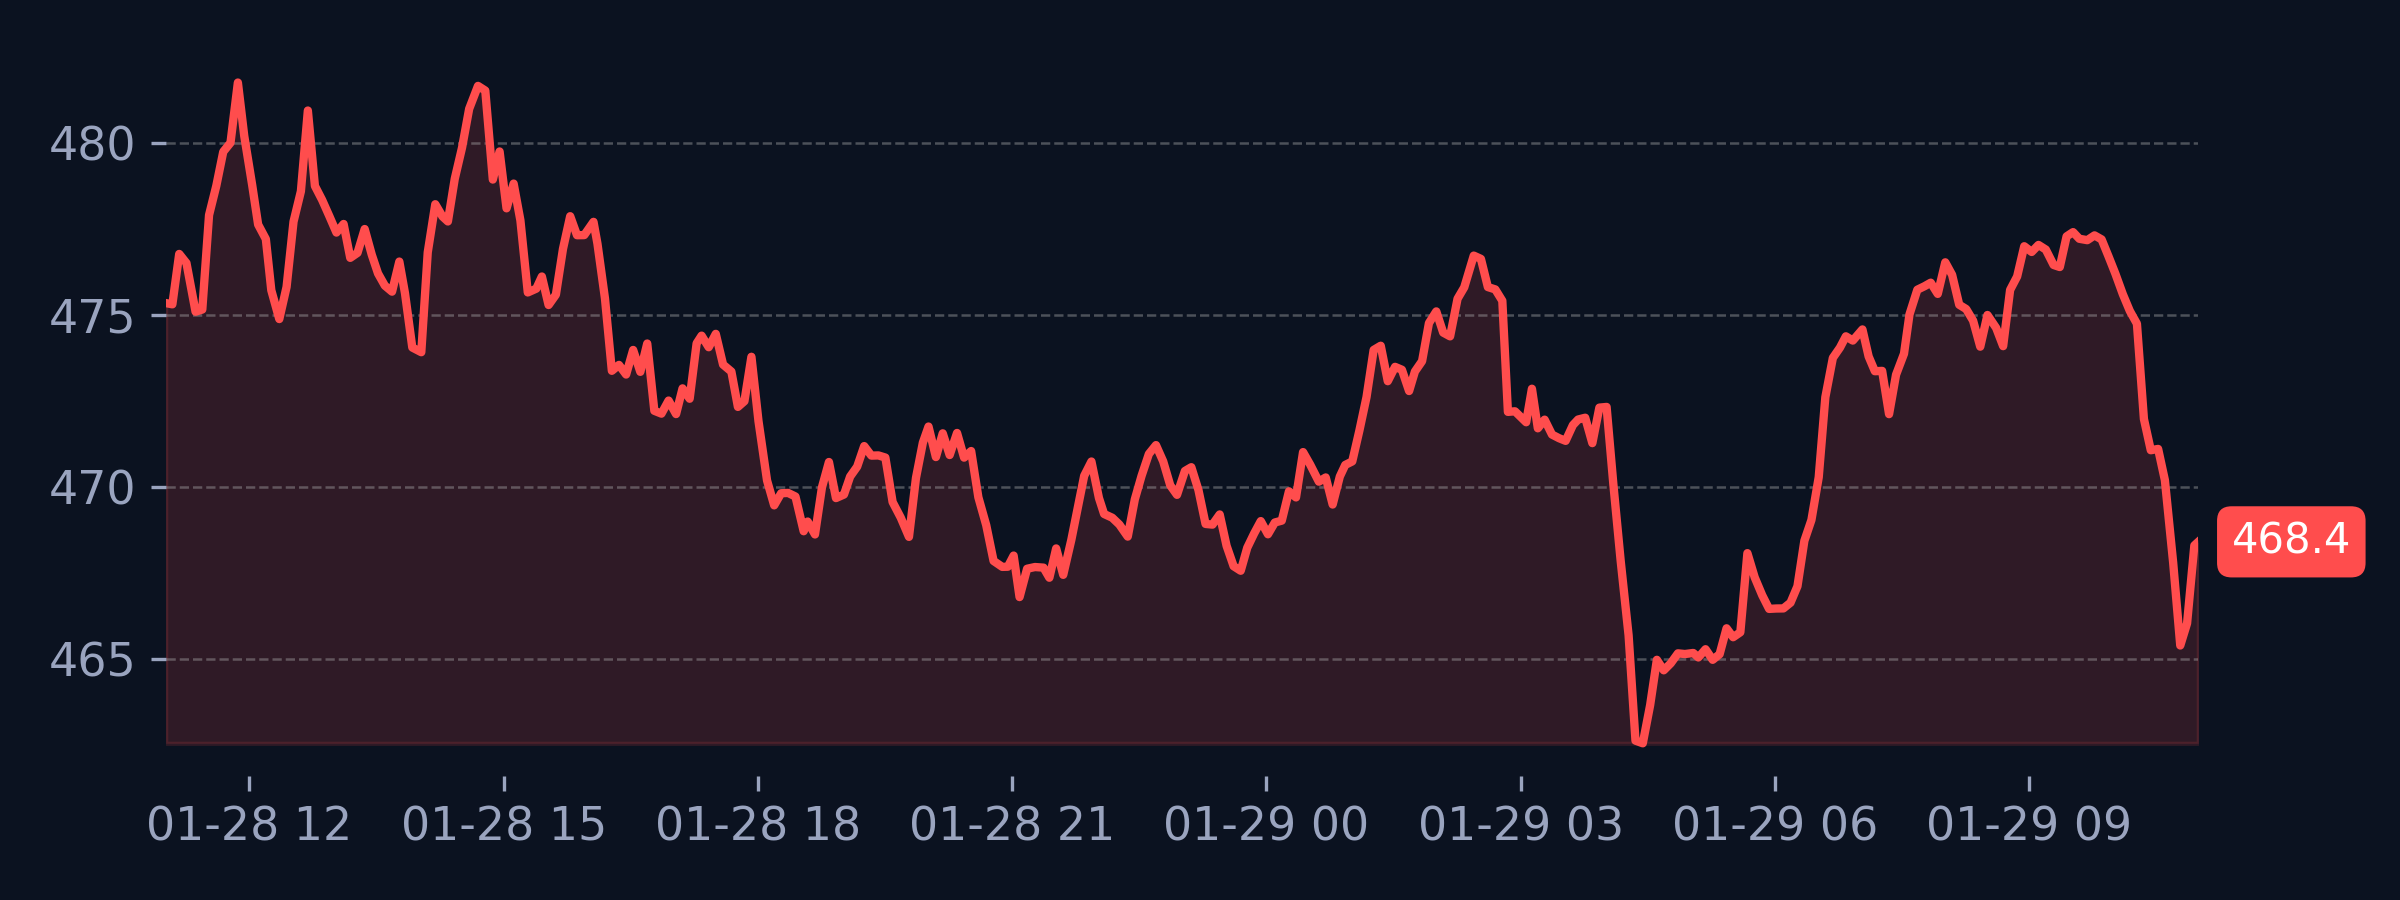
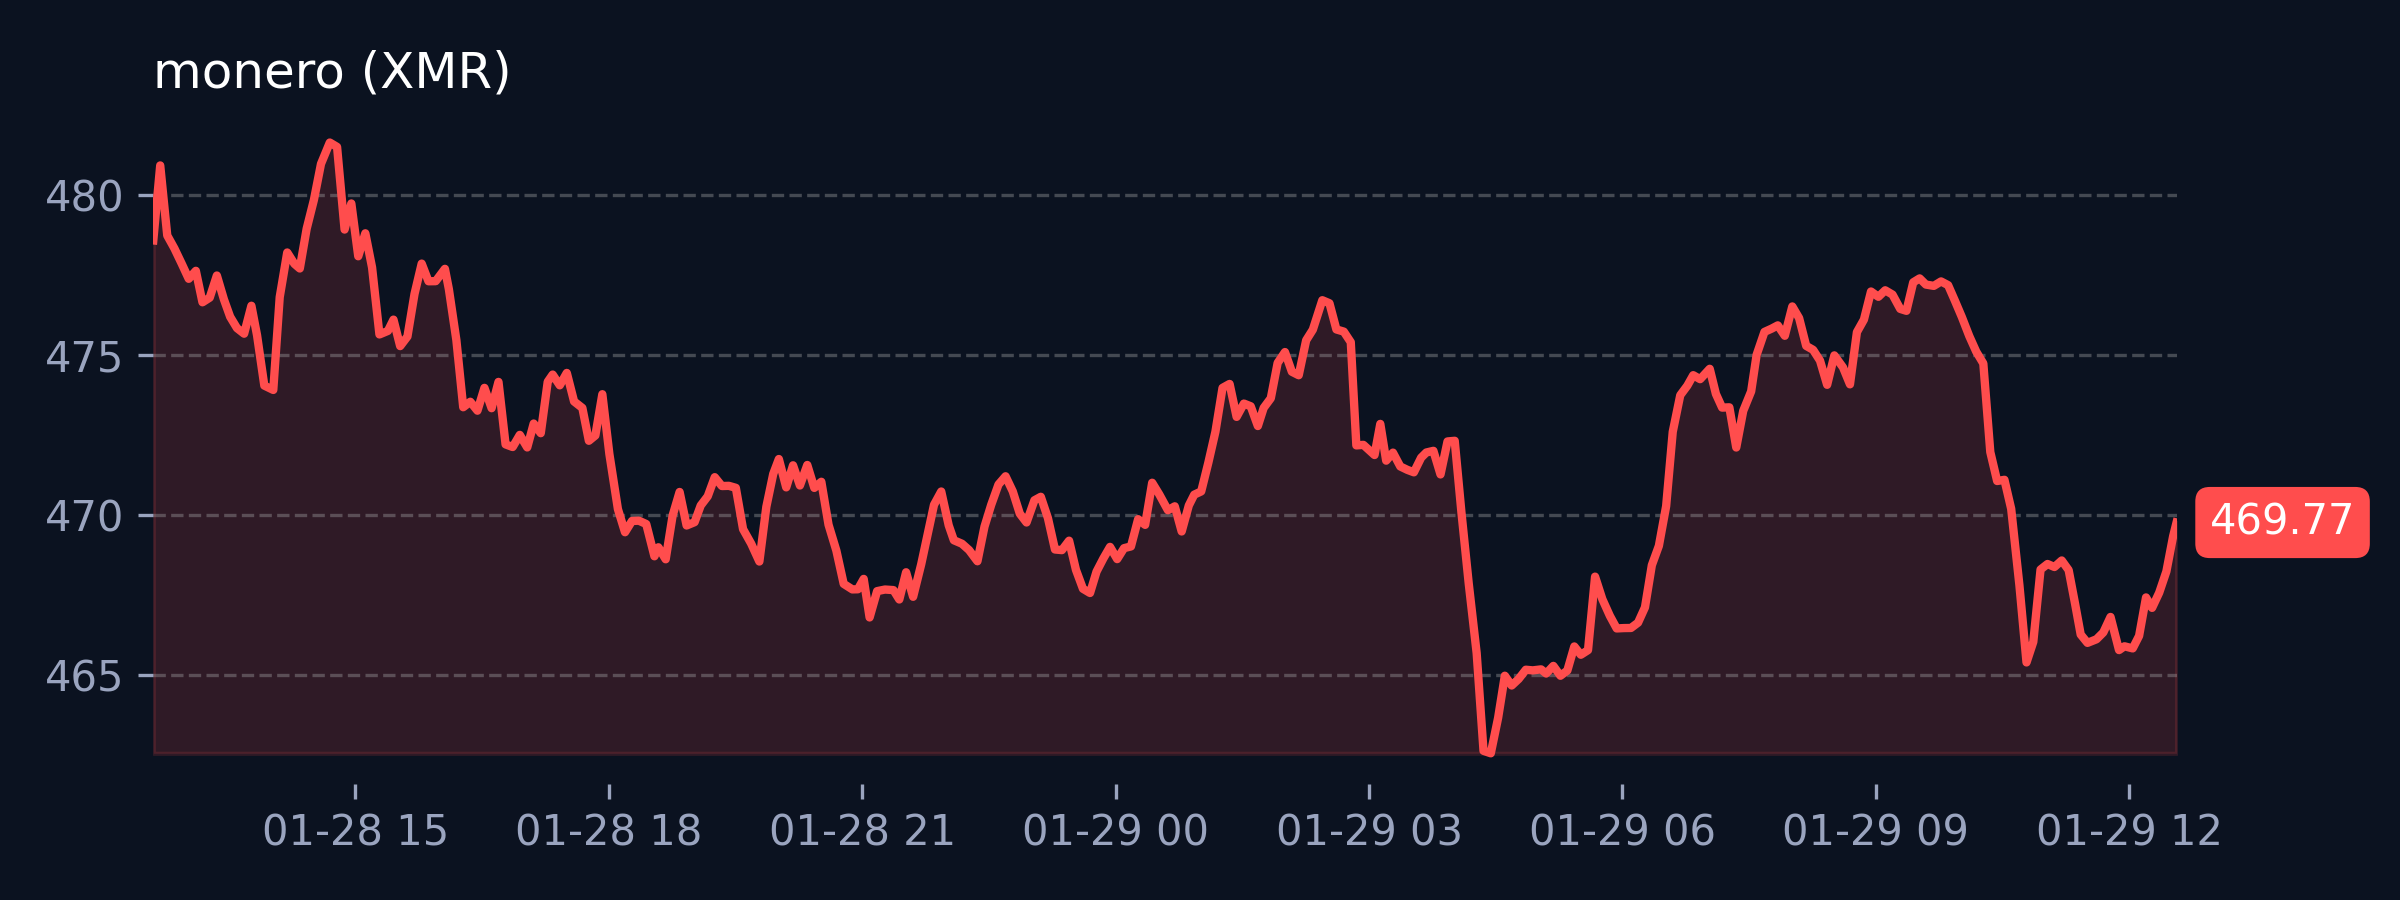
minor updates

Changed region(s): [[0.0, 0.0622, 1.0, 0.84], [0.0625, 0.8711, 0.9375, 0.9333]]

diff --git a/chart.py b/chart.py
@@ -2,58 +2,71 @@ import requests
 import pandas as pd
 import matplotlib.pyplot as plt
 
-
-def fetch_price(coin_id, days=1, vs_currency="usd"):
-    url = f"https://api.coingecko.com/api/v3/coins/{coin_id}/market_chart"
+def fetch_price(coin, days, currency="usd"):
+    url = f"https://api.coingecko.com/api/v3/coins/{coin}/market_chart"
     params = {
-            "vs_currency": vs_currency,
-            "days": days
-            }
-
+        "vs_currency": currency,
+        "days": days
+    }
     r = requests.get(url, params=params, timeout=10)
     r.raise_for_status()
-
     data = r.json()
     if "prices" not in data:
-        raise RuntimeError(f"[!] bad API response for {coin_id}: {data}")
-
-    df = pd.DataFrame(data["prices"], columns=["ts", "price"])
-    df["ts"] = pd.to_datetime(df["ts"], unit="ms")
-
+        raise RuntimeError(f"[!] bad API response during fetch_price() for {coin}\n[*] error data: {data}")
+    
+    df = pd.DataFrame(data['prices'], columns=['ts', 'price'])
+    df['ts'] = pd.to_datetime(df['ts'], unit='ms')
+    
     #return df[(df["price"] > 0) & (df["price"] < 1_000_000)]
     return df
 
-def generate_chart(output="img/xmr_zec.png", days=1):
-    xmr = fetch_price("monero", days)
-    zec = fetch_price("zcash", days)
-
+def generate_chart(chart_type, coin=None):
     bg = "#0b1220"
     grid = "#2a3345"
     red = "#ff4d4d"
     blue = "#4da6ff"
-
     plt.rcParams.update({
-        "figure.facecolor": bg,
-        "axes.facecolor": bg,
-        "xtick.color": "#9aa4bf",
-        "ytick.color": "#9aa4bf",
-        "font.size": 10
+            "figure.facecolor": bg,
+            "axes.facecolor": bg,
+            "xtick.color": "#9aa4bf",
+            "ytick.color": "#9aa4bf",
+            "font.size": 10
     })
 
-    fig, (ax1, ax2) = plt.subplots(
-        2, 1,
-        figsize=(8, 5),
-        sharex=True,
-        gridspec_kw={"hspace": 0.33}
-    )
+    days = "1"
+    if chart_type == 'dual':
+        xmr_price = fetch_price("monero", days)
+        zec_price = fetch_price("zcash", days)
 
-    draw(ax1, xmr, "monero (XMR)", red)
-    draw(ax2, zec, "zcash (ZEC)", blue)
+        fig, (ax1, ax2) = plt.subplots(
+            2, 1,
+            figsize=(8, 5),
+            sharex=True,
+            gridspec_kw={"hspace": 0.30}
+        )
 
-    plt.tight_layout()
-    plt.savefig(output, dpi=400)
-    plt.close()
+        draw(ax1, xmr_price, "monero (XMR)", red)
+        draw(ax2, zec_price, "zcash (ZEC)", blue)
 
+        plt.tight_layout()
+        plt.savefig("img/xmr_zec.png", dpi=300)
+        plt.close()
+    elif chart_type == 'single':
+        if coin is None:
+            raise ValueError("[!] coin is required when chart_type == 'single'")
+        
+        price = fetch_price(coin, days)
+        fig, ax = plt.subplots(figsize=(8, 3))
+        if coin == 'monero':
+            draw(ax, price, "monero (XMR)", red)
+        elif coin == 'zcash':
+            draw(ax, price, "zcash (ZEC)", blue)
+        else:
+            raise ValueError("[!] not supported coin yet")
+        
+        plt.tight_layout()
+        plt.savefig(f"img/{coin}.png", dpi=300)
+        plt.close()
 
 def draw(ax, df, title, color):
     ax.plot(df["ts"], df["price"], color=color, linewidth=2)
@@ -91,3 +104,88 @@ def draw(ax, df, title, color):
 
     ax.margins(x=0)
     ax.set_ylabel("")
+
+#def generate_chart(coins, chart_type):
+#    if chart_type == 'single':
+#    url = f"https://api.coingecko.com/api/v3/coins/{coin}/market_chart"
+#    params = {
+#        "vs_currency": "usd",
+#        "days": 1
+#        }
+#    
+#    data = requests.get(url, params=params, timeout=10).json()
+#    if "prices" not in data:
+#        raise RuntimeError(f"[!] invalid API response: {data}")
+#    else:
+#        prices = data["prices"]
+#    
+#    df = pd.DataFrame(prices, columns=["ts", "price"])
+#    df["ts"] = pd.to_datetime(df["ts"], unit="ms")
+#    
+#    # to sort; can be commented out
+#    #df = df[(df["price"] > 50) & (df["price"] < 2000)]
+#    
+#    bg_color = "#0b1220"
+#    grid_color = "#2a3345"
+#    line_color = "#ff4d4d"
+#    
+#    plt.rcParams.update({
+#        "figure.facecolor": bg_color,
+#        "axes.facecolor": bg_color,
+#        "axes.edgecolor": bg_color,
+#        "axes.labelcolor": "white",
+#        "xtick.color": "#9aa4bf",
+#        "ytick.color": "#9aa4bf",
+#        "font.size": 11
+#    })
+#    
+#    fig, ax = plt.subplots(figsize=(8, 3))
+#    
+#    # price line
+#    ax.plot(df["ts"], df["price"], color=line_color, linewidth=2)
+#    
+#    # gradient 
+#    x = df["ts"]
+#    y = df["price"]
+#    
+#    ax.fill_between(
+#        x,
+#        y,
+#        y.min(),
+#        color=line_color,
+#        alpha=0.15
+#    )
+#    
+#    # mesh
+#    ax.grid(True, axis="y", linestyle="--", linewidth=0.6, alpha=0.4)
+#    ax.grid(False, axis="x")
+#    
+#    # remove borders
+#    for spine in ax.spines.values():
+#        spine.set_visible(False)
+#    
+#    # current price in numbers
+#    last_price = y.iloc[-1]
+#    ax.annotate(
+#        f"{last_price:.1f}",
+#        xy=(x.iloc[-1], last_price),
+#        xytext=(8, 0),
+#        textcoords="offset points",
+#        va="center",
+#        color="white",
+#        fontsize=10,
+#        bbox=dict(
+#            boxstyle="round,pad=0.35",
+#            facecolor=line_color,
+#            edgecolor="none"
+#        )
+#    )
+#    
+#    ax.set_xlim(x.min(), x.max())
+#    ax.margins(x=0)
+#    ax.set_xlabel("")
+#    ax.set_ylabel("")
+#    
+#    plt.tight_layout()
+#    plt.savefig(f"img/{coin}.png", dpi=300)
+#    plt.close()

diff --git a/main.py b/main.py
@@ -7,7 +7,7 @@ from io import BytesIO
 from aiogram.types import InputMediaPhoto, FSInputFile
 from dotenv import load_dotenv, dotenv_values
 import os
-from old_chart import generate_chart
+from chart import generate_chart
 
 load_dotenv()
 bot_token = os.getenv("bot_token")
@@ -34,17 +34,19 @@ async def get_price(url, coin):
 async def send_price_alert(xmr_price, zec_price, xmr_old_price, zec_old_price, startup=False):
     if startup:
         startup_msg = f"[+] started\n\n[*] XMR price:  ${xmr_price:.2f}\n[*] ZEC price: ${zec_price:.2f}"
-        generate_chart("monero")
-        generate_chart("zcash")
-        startup_charts = [
-            InputMediaPhoto(
-                media=FSInputFile("img/monero.png"),
-                caption=startup_msg
-            ),
-            InputMediaPhoto(
-                media=FSInputFile("img/zcash.png")
-            )
-        ]
+        generate_chart('dual')
+        await bot.send_photo(chat_id=chat_id, photo=FSInputFile("img/xmr_zec.png"), caption=startup_msg)
+        #generate_chart("monero")
+        #generate_chart("zcash")
+        #startup_charts = [
+        #    InputMediaPhoto(
+        #        media=FSInputFile("img/monero.png"),
+        #        caption=startup_msg
+        #    ),
+        #    InputMediaPhoto(
+        #        media=FSInputFile("img/zcash.png")
+        #    )
+        #]
     else:
         xmr_diff = xmr_price - xmr_old_price
         zec_diff = zec_price - zec_old_price
@@ -61,15 +63,14 @@ async def send_price_alert(xmr_price, zec_price, xmr_old_price, zec_old_price, s
             zec_msg = f"[!] zcash (ZEC) {direction_down} dropped by ${abs(zec_diff):.2f}\n\n[*] current price: ${zec_price:.2f}"
     
         if xmr_msg:
-            generate_chart("monero")
+            generate_chart('single', 'monero')
             await bot.send_photo(chat_id=chat_id, photo=FSInputFile("img/monero.png"), caption=xmr_msg)
         elif zec_msg:
-            generate_chart("zcash")
+            generate_chart('single', 'zcash')
             await bot.send_photo(chat_id=chat_id, photo=FSInputFile("img/zcash.png"), caption=zec_msg)
         else:
             pass
-    #await bot.send_photo(chat_id=chat_id, photo=FSInputFile("monero.png"), caption=startup_msg)
-    await bot.send_media_group(chat_id=chat_id, media=startup_charts)
+    #await bot.send_photo(chat_id=chat_id, photo=FSInputFile("img/xmr_zec.png"), caption=startup_msg)
     #await send_price_chart()
     #news = await get_xmr_news()
     #if news:
@@ -81,7 +82,7 @@ async def price_monitor():
     zec_last_price = await get_price(zec_url, "zcash")
     zec_history.append(zec_last_price)
 
-    await send_price_alert(xmr_last_price, zec_last_price, startup=True)
+    await send_price_alert(xmr_last_price, zec_last_price, None, None, startup=True)
 
     while True:
         await asyncio.sleep(CHECK_INTERVAL)
@@ -101,8 +102,9 @@ async def price_monitor():
             print("Error:", e)
 
 async def stats_command():
-    generate_chart("img/xmr_zec.png", days=1)
+    generate_chart('dual')
     msg = f"[+] ok\n\n[*] XMR price:  ${xmr_price:.2f}\n[*] ZEC price: ${zec_price:.2f}"
+    await bot.send_photo(chat_id=chat_id, photo=FSInputFile("xmr_zec.png"), caption=msg)
 
 async def main():
     asyncio.create_task(price_monitor())

diff --git a/old.chart.py b/old.chart.py
@@ -1,0 +1,90 @@
+import requests
+import pandas as pd
+import matplotlib.pyplot as plt
+
+def fetch_price(coin_id, days=1, vs_currency="usd"):
+    url = f"https://api.coingecko.com/api/v3/coins/{coin_id}/market_chart"
+    params = {
+            "vs_currency": vs_currency,
+            "days": days
+            }
+    r = requests.get(url, params=params, timeout=10)
+    r.raise_for_status()
+    data = r.json()
+    if "prices" not in data:
+        raise RuntimeError(f"[!] bad API response for {coin_id}: {data}")
+
+    df = pd.DataFrame(data["prices"], columns=["ts", "price"])
+    df["ts"] = pd.to_datetime(df["ts"], unit="ms")
+
+    #return df[(df["price"] > 0) & (df["price"] < 1_000_000)]
+    return df
+
+def generate_chart(output="img/xmr_zec.png", days=1):
+    xmr = fetch_price("monero", days)
+    zec = fetch_price("zcash", days)
+
+    bg = "#0b1220"
+    grid = "#2a3345"
+    red = "#ff4d4d"
+    blue = "#4da6ff"
+
+    plt.rcParams.update({
+        "figure.facecolor": bg,
+        "axes.facecolor": bg,
+        "xtick.color": "#9aa4bf",
+        "ytick.color": "#9aa4bf",
+        "font.size": 10
+    })
+
+    fig, (ax1, ax2) = plt.subplots(
+        2, 1,
+        figsize=(8, 5),
+        sharex=True,
+        gridspec_kw={"hspace": 0.33}
+    )
+
+    draw(ax1, xmr, "monero (XMR)", red)
+    draw(ax2, zec, "zcash (ZEC)", blue)
+
+    plt.tight_layout()
+    plt.savefig(output, dpi=400)
+    plt.close()
+
+
+def draw(ax, df, title, color):
+    ax.plot(df["ts"], df["price"], color=color, linewidth=2)
+    ax.fill_between(
+        df["ts"],
+        df["price"],
+        df["price"].min(),
+        color=color,
+        alpha=0.15
+    )
+
+    ax.set_title(title, loc="left", color="white", fontsize=12)
+    ax.grid(True, axis="y", linestyle="--", alpha=0.35)
+    ax.grid(False, axis="x")
+
+    for spine in ax.spines.values():
+        spine.set_visible(False)
+
+    # current price bubble
+    last_price = df["price"].iloc[-1]
+    ax.annotate(
+        f"{last_price:.2f}",
+        xy=(df["ts"].iloc[-1], last_price),
+        xytext=(8, 0),
+        textcoords="offset points",
+        va="center",
+        color="white",
+        fontsize=10,
+        bbox=dict(
+            boxstyle="round,pad=0.35",
+            facecolor=color,
+            edgecolor="none"
+        )
+    )
+
+    ax.margins(x=0)
+    ax.set_ylabel("")

diff --git a/test_generate_chart.py b/test_generate_chart.py
@@ -1,0 +1,3 @@
+from chart import generate_chart
+
+generate_chart('single', 'zcash')

diff --git a/README.md b/README.md
@@ -1,6 +1,2 @@
 # xmrify
 xmr and zec price change alerts via telegram
-
-examples of charts
-![xmr_price](https://github.com/webcheating/xmrify/blob/main/img/monero.png)
-![zec_price](https://github.com/webcheating/xmrify/blob/main/img/zcash.png)
